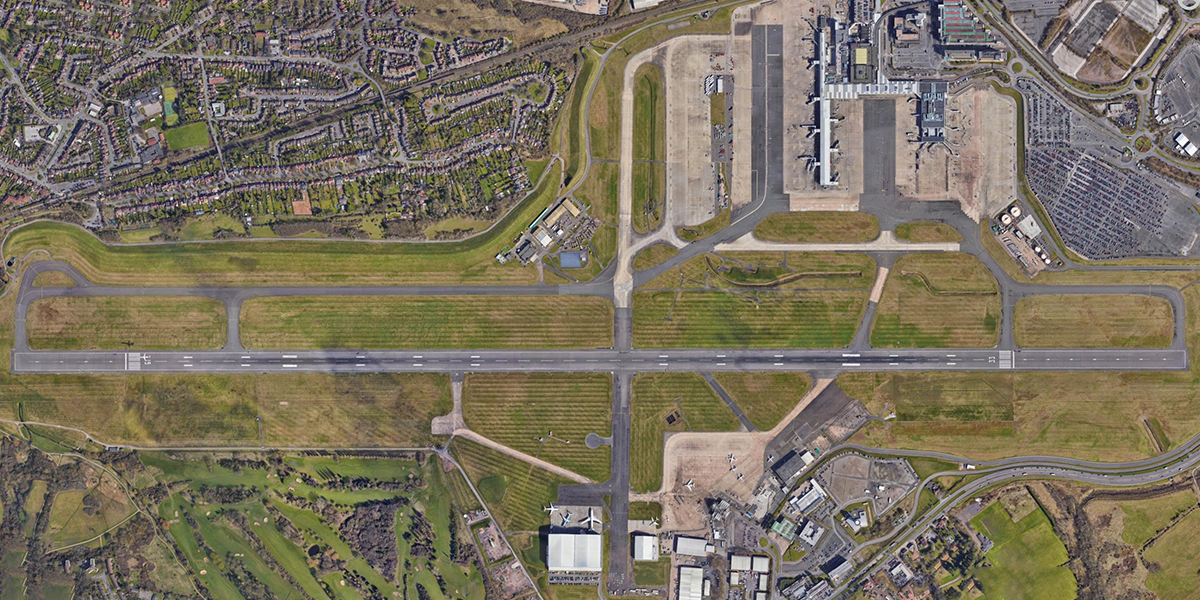
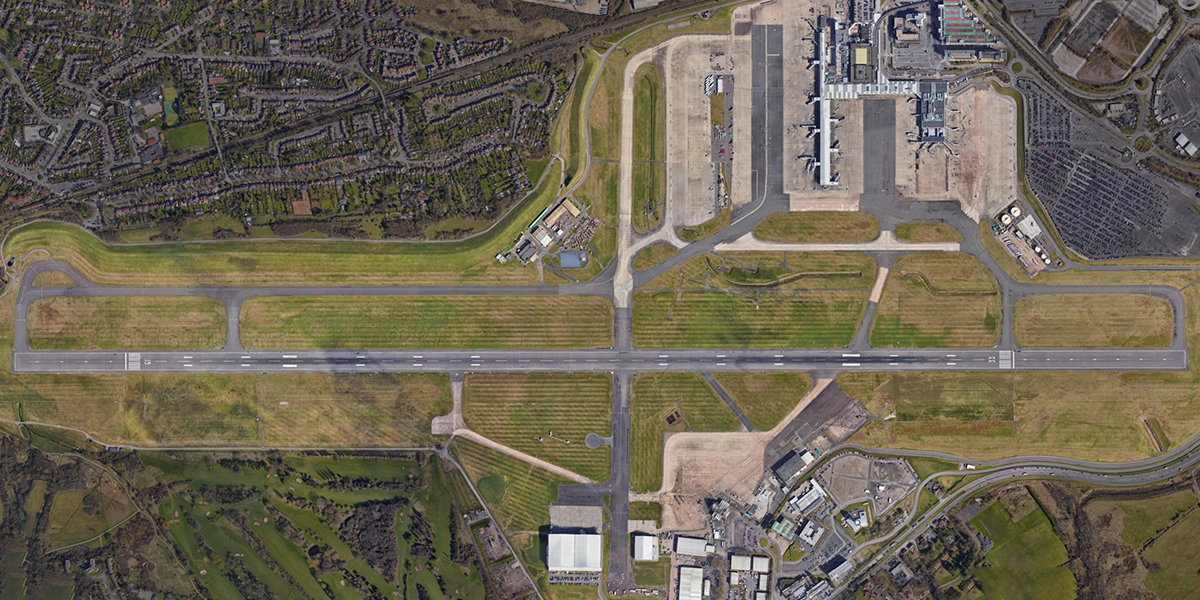
updated functionality

diff --git a/plane.py b/plane.py
@@ -14,18 +14,22 @@ class Plane:
         self.speed = 0
         self.path = []
         self.visited = []
-        self.state = "pushback"
+        self.state = "preparing"
         self.stand = stand
+        self.drag = config.GROUND_DRAG
 
     def draw(self, window):
         rotated_image = pygame.transform.rotate(self.image, -self.heading)
         rotated_rect = rotated_image.get_rect(center=(self.x, self.y))
         window.blit(rotated_image, rotated_rect.topleft)
-        
+
         data = config.DATA_FONT.render(
-            f"{to_knots(self.speed):.0f} kts", True, (255, 255, 0)
+            f"{to_knots(self.speed):.0f} kts {self.thrust}%", True, (255, 255, 0)
         )
-        window.blit(data, (self.x - 15, self.y - 30))
+        window.blit(data, (self.x - 15, self.y - 20))
+
+    def update_state(self, state):
+        self.state = state
 
     def thrust_up(self):
         self.thrust += THRUST_CHANGE_RATE
@@ -44,38 +48,34 @@ class Plane:
             self.speed = 0
 
     def update_speed(self):
-        # Calculate acceleration based on thrust
         acceleration = (self.thrust / 100) * MAX_ACCELERATION
 
-        # Update speed with acceleration and drag
         self.speed += acceleration * TIME_STEP
-        self.speed -= DRAG_COEFFICIENT * self.speed * TIME_STEP
+        self.speed -= self.drag * self.speed * TIME_STEP
 
-        # Ensure speed does not exceed max speed
         if self.speed > MAX_SPEED:
             self.speed = MAX_SPEED
         elif self.speed < 0:
             self.speed = 0
 
     def move_manual(self):
-        # Update speed based on thrust and drag
         self.update_speed()
 
-        # Update position based on speed
         radian_heading = math.radians(self.heading)
         self.x += (self.speed / PIXEL_TO_METRE) * math.sin(radian_heading) * TIME_STEP
         self.y -= (self.speed / PIXEL_TO_METRE) * math.cos(radian_heading) * TIME_STEP
 
     def auto_move(self):
+        if self.state == "takeoff":
+            self.takeoff()
         if self.state == "pushback":
             self.pushback()
         if self.state == "taxiing":
             self.taxi()
 
     def get_turn_angle(self):
-        # Calculate turn angle based on speed
         if self.speed == 0:
-            return 0  # No turning when stationary
+            return 0
         return MAX_TURN_ANGLE / (1 + TURN_SPEED_SCALING * self.speed)
 
     def turn_left(self):
@@ -90,11 +90,9 @@ class Plane:
         if not self.path:
             return
 
-        # Get the next waypoint
         end_node = get_node_object(self.path[0])
         end_x, end_y = end_node.x, end_node.y
 
-        # Calculate the distance to the next waypoint
         distance_next = distance_between(self, end_node)
         distance_prev = (
             distance_between(self, end_node)
@@ -102,26 +100,30 @@ class Plane:
             else distance_between(self, get_node_object(self.visited[-1]))
         )
 
-        # Adjust speed based on distance
         if distance_next < SLOW_DISTANCE or distance_prev < SLOW_DISTANCE:
             self.speed = to_mps(SLOW_SPEED)
         else:
             self.speed = to_mps(TAXI_SPEED)
 
-        # Calculate the heading to the next waypoint
         radian_heading = math.atan2(end_y - self.y, end_x - self.x)
         self.heading = (math.degrees(radian_heading) + 90) % 360
 
-        # Move towards the waypoint
         self.x += (self.speed / PIXEL_TO_METRE) * math.cos(radian_heading) * TIME_STEP
         self.y += (self.speed / PIXEL_TO_METRE) * math.sin(radian_heading) * TIME_STEP
 
-        # Check if the plane has reached the waypoint
         if distance_next < self.speed * TIME_STEP:
             self.x = end_x
             self.y = end_y
             self.speed = 0
             self.visited.append(self.path.pop(0))
+
+            runway_path = get_edge_object(config.RUNWAY_IN_USE)
+
+            if self.visited[-1] == runway_path.start.id:
+                self.state = "takeoff"
+                self.heading = runway_path.heading
+                self.x = runway_path.start.x
+                self.y = runway_path.start.y
 
     def pushback(self):
         pushback_line_start = self.stand.parent.start
@@ -135,15 +137,19 @@ class Plane:
             pushback_line_end.y,
         )
 
-        # TODO: Add pathfinding to takeoff node
         if distance <= 1:
             self.x = point_x
             self.y = point_y
             self.state = "taxiing"
+            self.stand.available = True
+            self.stand = None
             return
 
-        # Move 1 pixel towards the pushback line backwards
         radian_heading = math.radians(self.heading)
         self.x -= math.sin(radian_heading) / 10
         self.y += math.cos(radian_heading) / 10
 
+    def takeoff(self):
+        self.thrust = 100
+        self.drag = config.FLIGHT_DRAG
+        self.move_manual()

diff --git a/main.py b/main.py
@@ -1,3 +1,4 @@
+import random
 import pygame
 from plane import Plane
 from airport import initialise_graph, render_airport
@@ -17,49 +18,58 @@ def setup():
 
     return screen
 
+def spawn_planes_at_stands():
+    available_stands = [stand for stand in config.STAND_LIST if stand.available]
+    selected_stands = random.sample(available_stands, min(10, len(available_stands)))
 
-def spawn_plane():
-    test_plane = Plane(
-        config.STAND_DICT["41"].x,
-        config.STAND_DICT["41"].y,
-        config.STAND_DICT["41"].heading,
-        config.STAND_DICT["41"],
-    )
-    dijkstra_path, distance = dijkstra("V1", "S1")
-    test_plane.path = dijkstra_path
-    return test_plane
+    for stand in selected_stands:
+        new_plane = Plane(stand.x, stand.y, stand.heading, stand)
+        dijkstra_path, distance = dijkstra(stand.parent.end.id, get_edge_object(config.RUNWAY_IN_USE).start.id)
+        new_plane.path = dijkstra_path
+        config.PLANES.append(new_plane)
+        stand.available = False
+
+
+def simulate_frame(screen):
+    for plane in config.PLANES:
+        if plane.state == "preparing":
+            if random.randint(1,config.PUSHBACK_PROBABILITY) == 1:
+                plane.update_state("pushback")
+        
+        plane.auto_move()
+        plane.draw(screen)
 
 
 def main():
     screen = setup()
 
-    test_plane = spawn_plane()
+    spawn_planes_at_stands()
 
-    # Main game loop
     running = True
     clock = pygame.time.Clock()
 
-    while running:
-        keys = pygame.key.get_pressed()
-        if keys[pygame.K_UP]:
-            test_plane.thrust_up()
-        elif keys[pygame.K_DOWN]:
-            test_plane.thrust_down()
-        if keys[pygame.K_LEFT]:
-            test_plane.turn_left()
-        elif keys[pygame.K_RIGHT]:
-            test_plane.turn_right()
+    # test_plane = Plane(100, 100, 0, None)
 
-        # test_plane.move_manual()
-        test_plane.auto_move()
+    while running:
+        # keys = pygame.key.get_pressed()
+        # if keys[pygame.K_UP]:
+        #     test_plane.thrust_up()
+        # elif keys[pygame.K_DOWN]:
+        #     test_plane.thrust_down()
+        # if keys[pygame.K_LEFT]:
+        #     test_plane.turn_left()
+        # elif keys[pygame.K_RIGHT]:
+        #     test_plane.turn_right()
 
         for event in pygame.event.get():
             if event.type == pygame.QUIT:
                 running = False
 
         render_airport(screen)
+        simulate_frame(screen)
 
-        test_plane.draw(screen)
+        # test_plane.move_manual()
+        # test_plane.draw(screen)
 
         pygame.display.update()
         clock.tick(config.FPS)

diff --git a/configuration.py b/configuration.py
@@ -1,9 +1,11 @@
 # main.py
 WIDTH = 1200
 HEIGHT = 600
-FPS = 30
+FPS = 60
 AIRPORT_ICAO = "EGBB"
-RUNWAY_IN_USE = "RWY15"
+RUNWAY_IN_USE = "RNWY33-RNWY15"
+PLANES = []
+PUSHBACK_PROBABILITY = 2000
 
 # airport.py
 MARK_FONT = None
@@ -21,15 +23,16 @@ RENDER_STANDS = True
 
 # plane.py
 THRUST_CHANGE_RATE = 2  # Rate of thrust adjustment
-MAX_SPEED = 100  # Maximum velocity in m/s
-DRAG_COEFFICIENT = 0.5  # Air drag proportional to v²
-MAX_ACCELERATION = 20
-BRAKE_MULTIPLIER = 0.96
+MAX_SPEED = 150  # Maximum velocity in m/s
+FLIGHT_DRAG = 0.05 # DRAG_COEFFICIENT = 0.25  # Air drag proportional to v²
+GROUND_DRAG = 0.25
+MAX_ACCELERATION = 5  # Maximum acceleration in m/s²
+BRAKE_MULTIPLIER = 0.98  # Speed reduction factor when braking
 FRICTION = 10  # Ground friction proportional to velocity
 PIXEL_TO_METRE = 2.5  # 1 pixel = 2.5 meters
 TIME_STEP = 1 / FPS  # Frame time (30 FPS)
 MAX_TURN_ANGLE = 1  # Maximum turn angle in degrees
 TURN_SPEED_SCALING = 0.05  # Scaling factor for speed-dependent turning
-SLOW_DISTANCE = 15  # Distance at which to slow down to stop
-SLOW_SPEED = 10 # knots
+SLOW_DISTANCE = 10  # Distance at which to slow down to stop
+SLOW_SPEED = 15 # knots
 TAXI_SPEED = 25 # knots

diff --git a/airport.py b/airport.py
@@ -18,8 +18,8 @@ class Node:
 class Edge:
     def __init__(self, start_node, end_node, distance, heading):
         self.id = f"{start_node.id}-{end_node.id}"
-        self.start = start_node
-        self.end = end_node
+        self.start = start_node # Node object
+        self.end = end_node # Node object
         self.distance = distance
         self.heading = heading
 
@@ -33,7 +33,8 @@ class Stand:
         self.x = x
         self.y = y
         self.heading = heading
-        self.parent = parent
+        self.parent = parent # Edge object with order to follow to leave the stand
+        self.available = True
 
     def __repr__(self):
         return f"Stand({self.id})"
